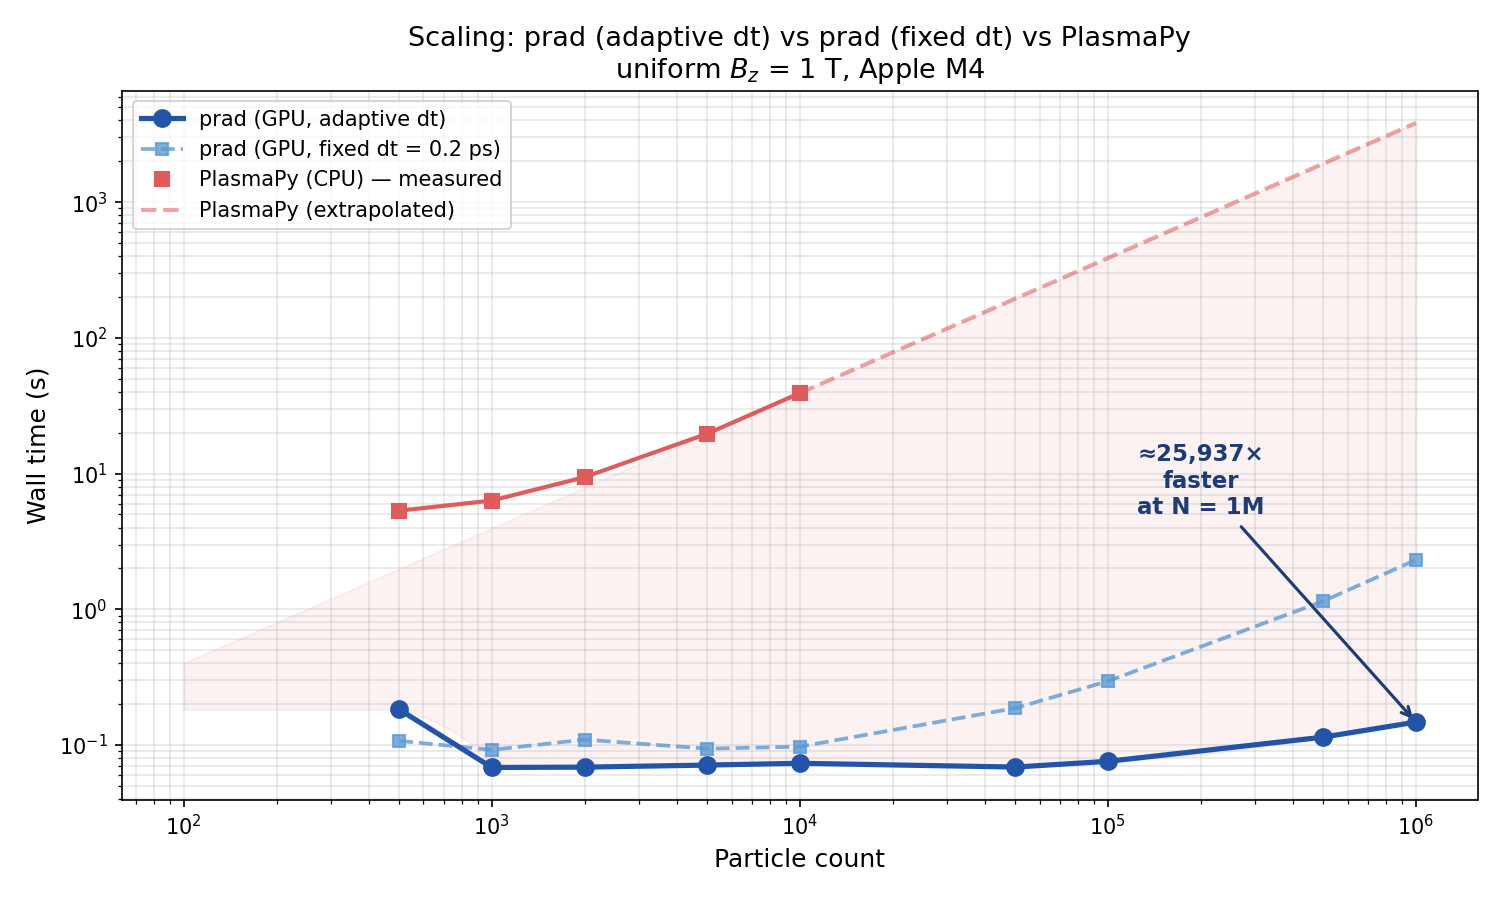
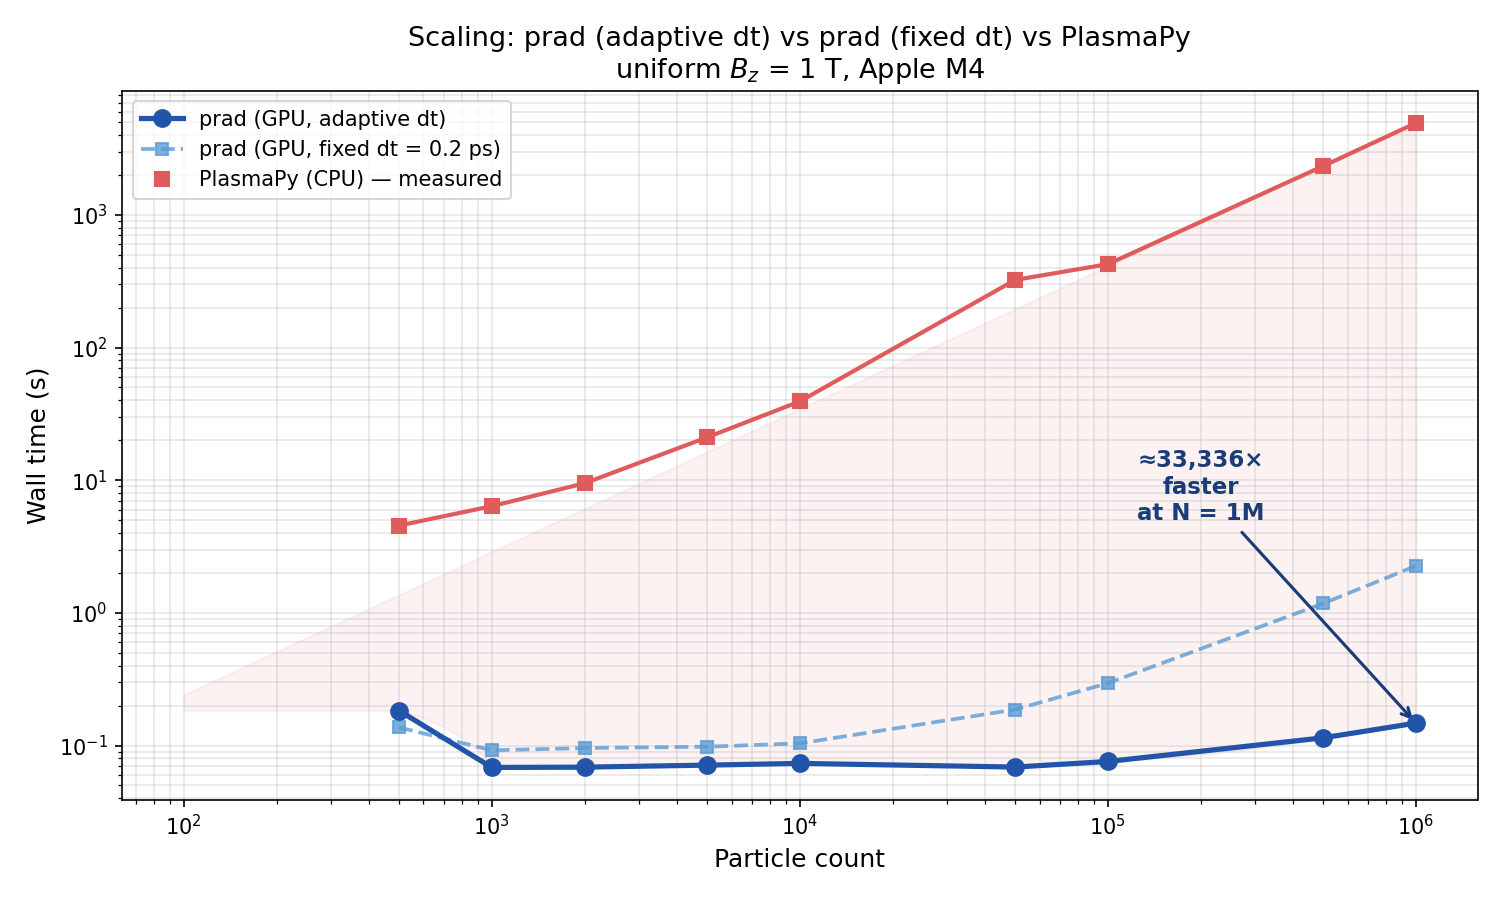
Deployed 9be270d with MkDocs version: 1.6.1

diff --git a/benchmark/index.html b/benchmark/index.html
@@ -1897,9 +1897,7 @@ a uniform Bz field (analytic answer known) and a Gaussian Bz blob
 <p><img alt="Gaussian Bz blob (peak 3 T, σ = 25 mm) comparison" src="../images/benchmark/plasmapy_physics_gaussian_blob.png" /></p>
 <h3 id="63-throughput-scaling">6.3 Throughput scaling<a class="headerlink" href="#63-throughput-scaling" title="Permanent link">&para;</a></h3>
 <p>Wall time vs particle count for both tracers on the same uniform Bz geometry.
-PlasmaPy is measured up to 10,000 particles and extrapolated beyond (linear fit through
-the 5,000 and 10,000 particle points, where O(N) CPU scaling is clean).
-prad is measured at all points up to 1,000,000.</p>
+Both tracers are measured at all points up to 1,000,000.</p>
 <table>
 <thead>
 <tr>
@@ -1912,21 +1910,21 @@ prad is measured at all points up to 1,000,000.</p>
 <tbody>
 <tr>
 <td>10,000</td>
-<td>0.097 s</td>
+<td>0.104 s</td>
 <td>39.2 s</td>
-<td>≈ 403×</td>
+<td>≈ 378×</td>
 </tr>
 <tr>
 <td>100,000</td>
 <td>0.295 s</td>
-<td>387.3 s (extrapolated)</td>
-<td>≈ 1,312×</td>
+<td>424.6 s</td>
+<td>≈ 1,439×</td>
 </tr>
 <tr>
 <td>1,000,000</td>
-<td>2.312 s</td>
-<td>3827.7 s (extrapolated)</td>
-<td>≈ 1,655×</td>
+<td>2.257 s</td>
+<td>4919.6 s</td>
+<td>≈ 2,179×</td>
 </tr>
 </tbody>
 </table>
@@ -1949,7 +1947,7 @@ prad's default adaptive scheduler:</p>
 <tr>
 <th>N</th>
 <th>prad (adaptive dt)</th>
-<th>PlasmaPy (extrapolated)</th>
+<th>PlasmaPy (measured)</th>
 <th>Speedup</th>
 </tr>
 </thead>
@@ -1957,26 +1955,26 @@ prad's default adaptive scheduler:</p>
 <tr>
 <td>100,000</td>
 <td>0.076 s</td>
-<td>387 s</td>
-<td><strong>≈ 5,109×</strong></td>
+<td>425 s</td>
+<td><strong>≈ 5,601×</strong></td>
 </tr>
 <tr>
 <td>500,000</td>
 <td>0.114 s</td>
-<td>1921 s</td>
-<td><strong>≈ 16,805×</strong></td>
+<td>2332 s</td>
+<td><strong>≈ 20,401×</strong></td>
 </tr>
 <tr>
 <td>1,000,000</td>
 <td>0.148 s</td>
-<td>3828 s</td>
-<td><strong>≈ 25,937×</strong></td>
+<td>4920 s</td>
+<td><strong>≈ 33,336×</strong></td>
 </tr>
 </tbody>
 </table>
 <blockquote>
 <p><strong>In experimentally relevant conditions (1M particles, adaptive dt):</strong>
-prad is <strong>≈ 26,000× faster</strong> than PlasmaPy on the same hardware.</p>
+prad is <strong>≈ 33,000× faster</strong> than PlasmaPy on the same hardware.</p>
 </blockquote>
 <p><img alt="Adaptive-dt scaling" src="../images/benchmark/plasmapy_scaling_adaptive.png" /></p>
 <hr />